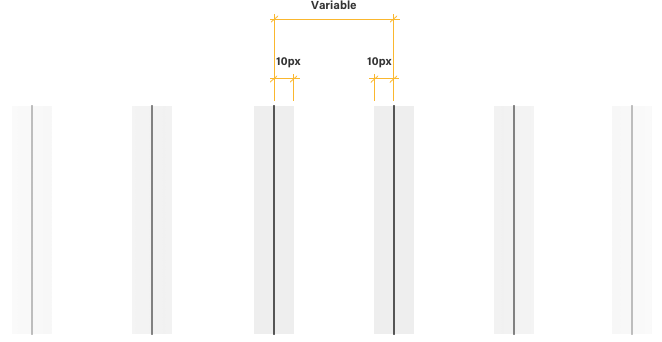
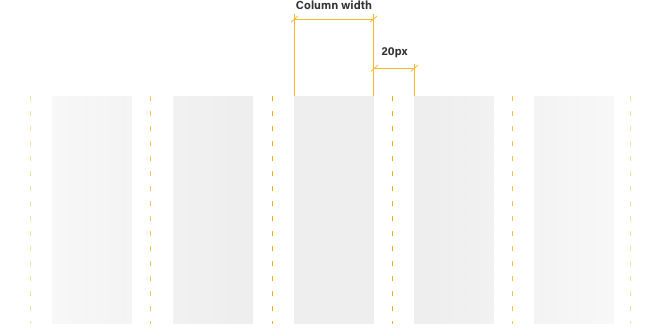
grid

diff --git a/brand-architecture.responsive-grid.md b/brand-architecture.responsive-grid.md
@@ -15,19 +15,19 @@ WRI project websites use a 12 column grid (six on smallest devices). This grid m
 
 These are some examples of possible configurations for contents of the 12 column grid
 
-![image description]({{ site.baseurl }}/images/image14.jpg)
+![image description]({{ site.baseurl }}/images/image14.png)
 
 <div class="align-right margin-bottom">
 	Desktop displays
 </div>
 
-![image description]({{ site.baseurl }}/images/image15.jpg)
+![image description]({{ site.baseurl }}/images/image15.png)
 
 <div class="align-right margin-bottom">
 	Mobile devices
 </div>
 
-<p>Each column is composed by a variable width that changes with the display size and a 10-pixel padding. There are three cases for a screen up to 1200 pixel-width, the maximum allowed. If the screen is wider than that, the content stays centered. If the screen is smaller than 720 pixels, the content adapts to a mobile device layout with an elastic 6-column grid.</p>
+<p>Each column is composed by a variable width that changes with the display size and a 20-pixel gutter. There are three cases for a screen up to 1200 pixel-width, the maximum allowed. If the screen is wider than that, the content stays centered. If the screen is smaller than 720 pixels, the content adapts to a mobile device layout with an elastic columns grid.</p>
 
 ![image description]({{ site.baseurl }}/images/image16.png)
 
@@ -43,19 +43,19 @@ These are some examples of possible configurations for contents of the 12 column
 		</li>
 		<li>
 			<div class="col">> 1260 px </div>
-			<div class="col">90 px (12 columns)</div>
+			<div class="col">70 px (1080 px)</div>
 		</li>
 		<li>
 			<div class="col">1260 - 960 px</div>
-			<div class="col">80 px (12 columns)</div>
+			<div class="col">60 px (960 px)</div>
 		</li>
 		<li>
 			<div class="col">960 - 720 px</div>
-			<div class="col">60 px (12 columns)</div>
+			<div class="col">40 px (720 px)</div>
 		</li>
 		<li>
 			<div class="col"><720</div>
-			<div class="col">1/6 (6 columns)</div>
+			<div class="col">1/12</div>
 		</li>
 	</ul>
 </div>

diff --git a/how-to-represent-affiliated-brands.typography.md b/how-to-represent-affiliated-brands.typography.md
@@ -69,6 +69,86 @@ compose easy-to-read content pages.
 >
 > <cite><strong>Quote Author</strong> Quote author position  </cite>
 
+
+```css
+body {
+    -webkit-font-smoothing: antialiased;
+    font-family: AcuminPro, Arial, "Helvetica Neue", Helvetica, Arial, sans-serif;
+    color: #4A4A4A;
+}
+
+h1 {
+    font-size: 30px;
+    font-weight: 300;
+    line-height: 1.2;
+}
+
+h2 {
+    font-family: 'AcuminProCond';
+    font-size: 23px;
+    font-weight: 700;
+    line-height: 1.1;
+}
+
+h3 {
+    font-size: 22px;
+    font-weight: 400;
+    line-height: 1.1;
+}
+
+.description {
+    font-size: 16px;
+    line-height: 1.625;
+}
+
+.btn-lbl {
+    text-align: center;
+    display: inline-block;
+    vertical-align: top;
+    font-size: 14px;
+    border: 1px solid #4a4a4a;
+    border-radius: 3px;
+    min-width: 170px;
+    font-weight: 700;
+    padding: 13px 20px 13px
+}
+
+.legend {
+    font-weight: 400;
+    font-size: 13px;
+    text-transform: uppercase;
+}
+
+.chart-value {
+    font-size: 12px;
+    line-height: 1.2;
+}
+
+p {
+    font-size: 18px;
+    line-height: 1.77;
+    font-weight: 300;
+}
+
+blockquote {
+    font-size: 22px;
+    line-height: 1.45;
+    font-weight: 300;
+    letter-spacing: -1px;
+    padding: 20px 0 44px 15%;
+}
+
+blockquote cite {
+    text-align: right;
+    font-size: 16px;
+}
+
+blockquote cite strong {
+    display: block;
+    font-weight: 700;
+}
+```
+
 # Examples
 
 <span class="examples-block size-02">
